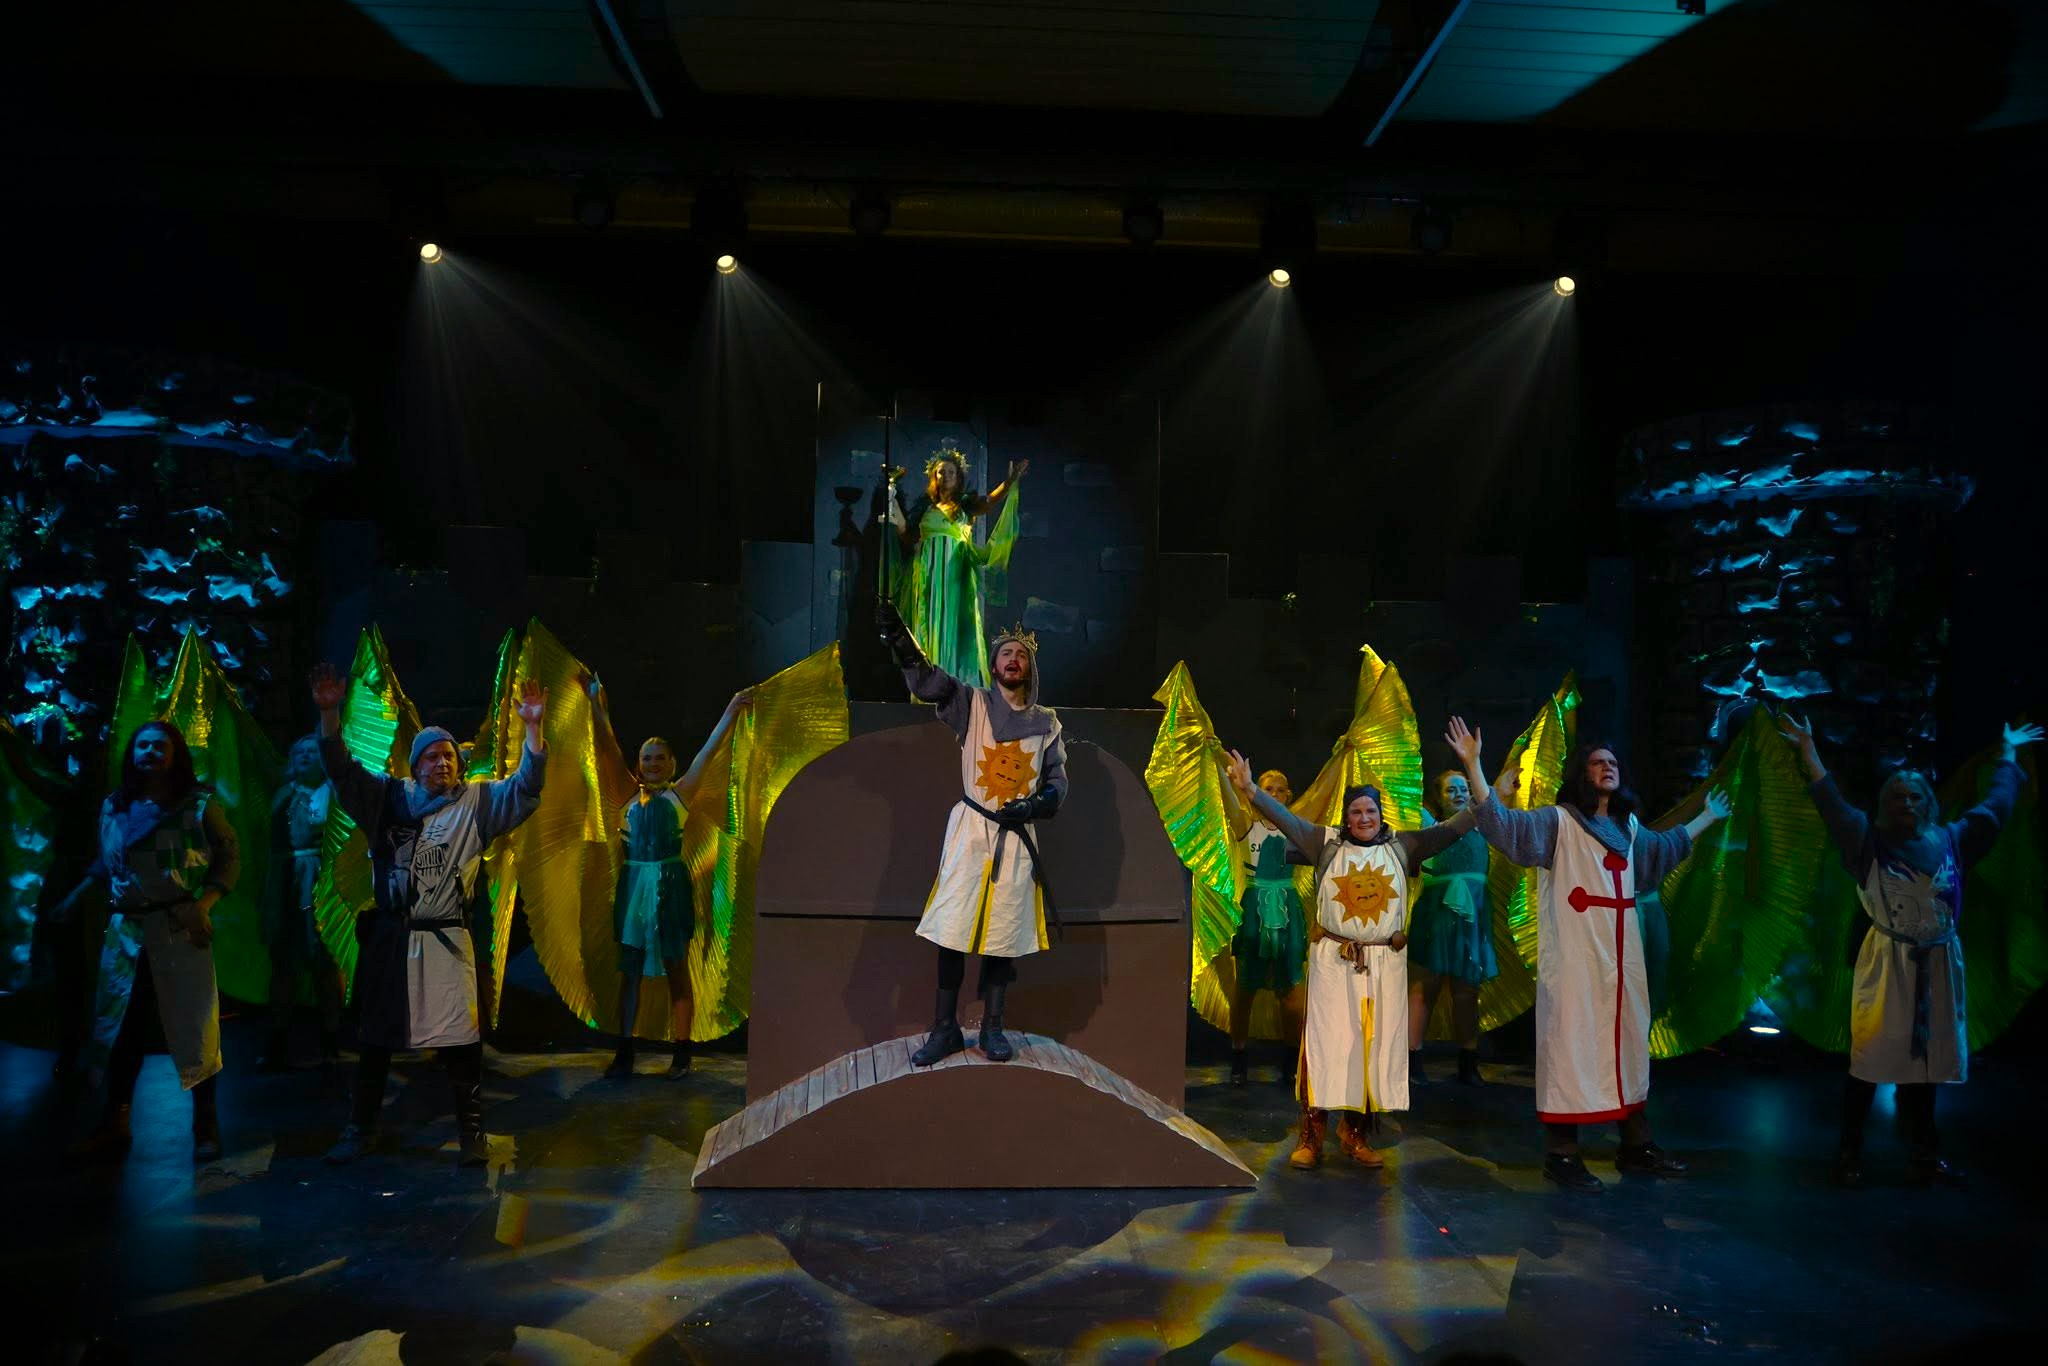
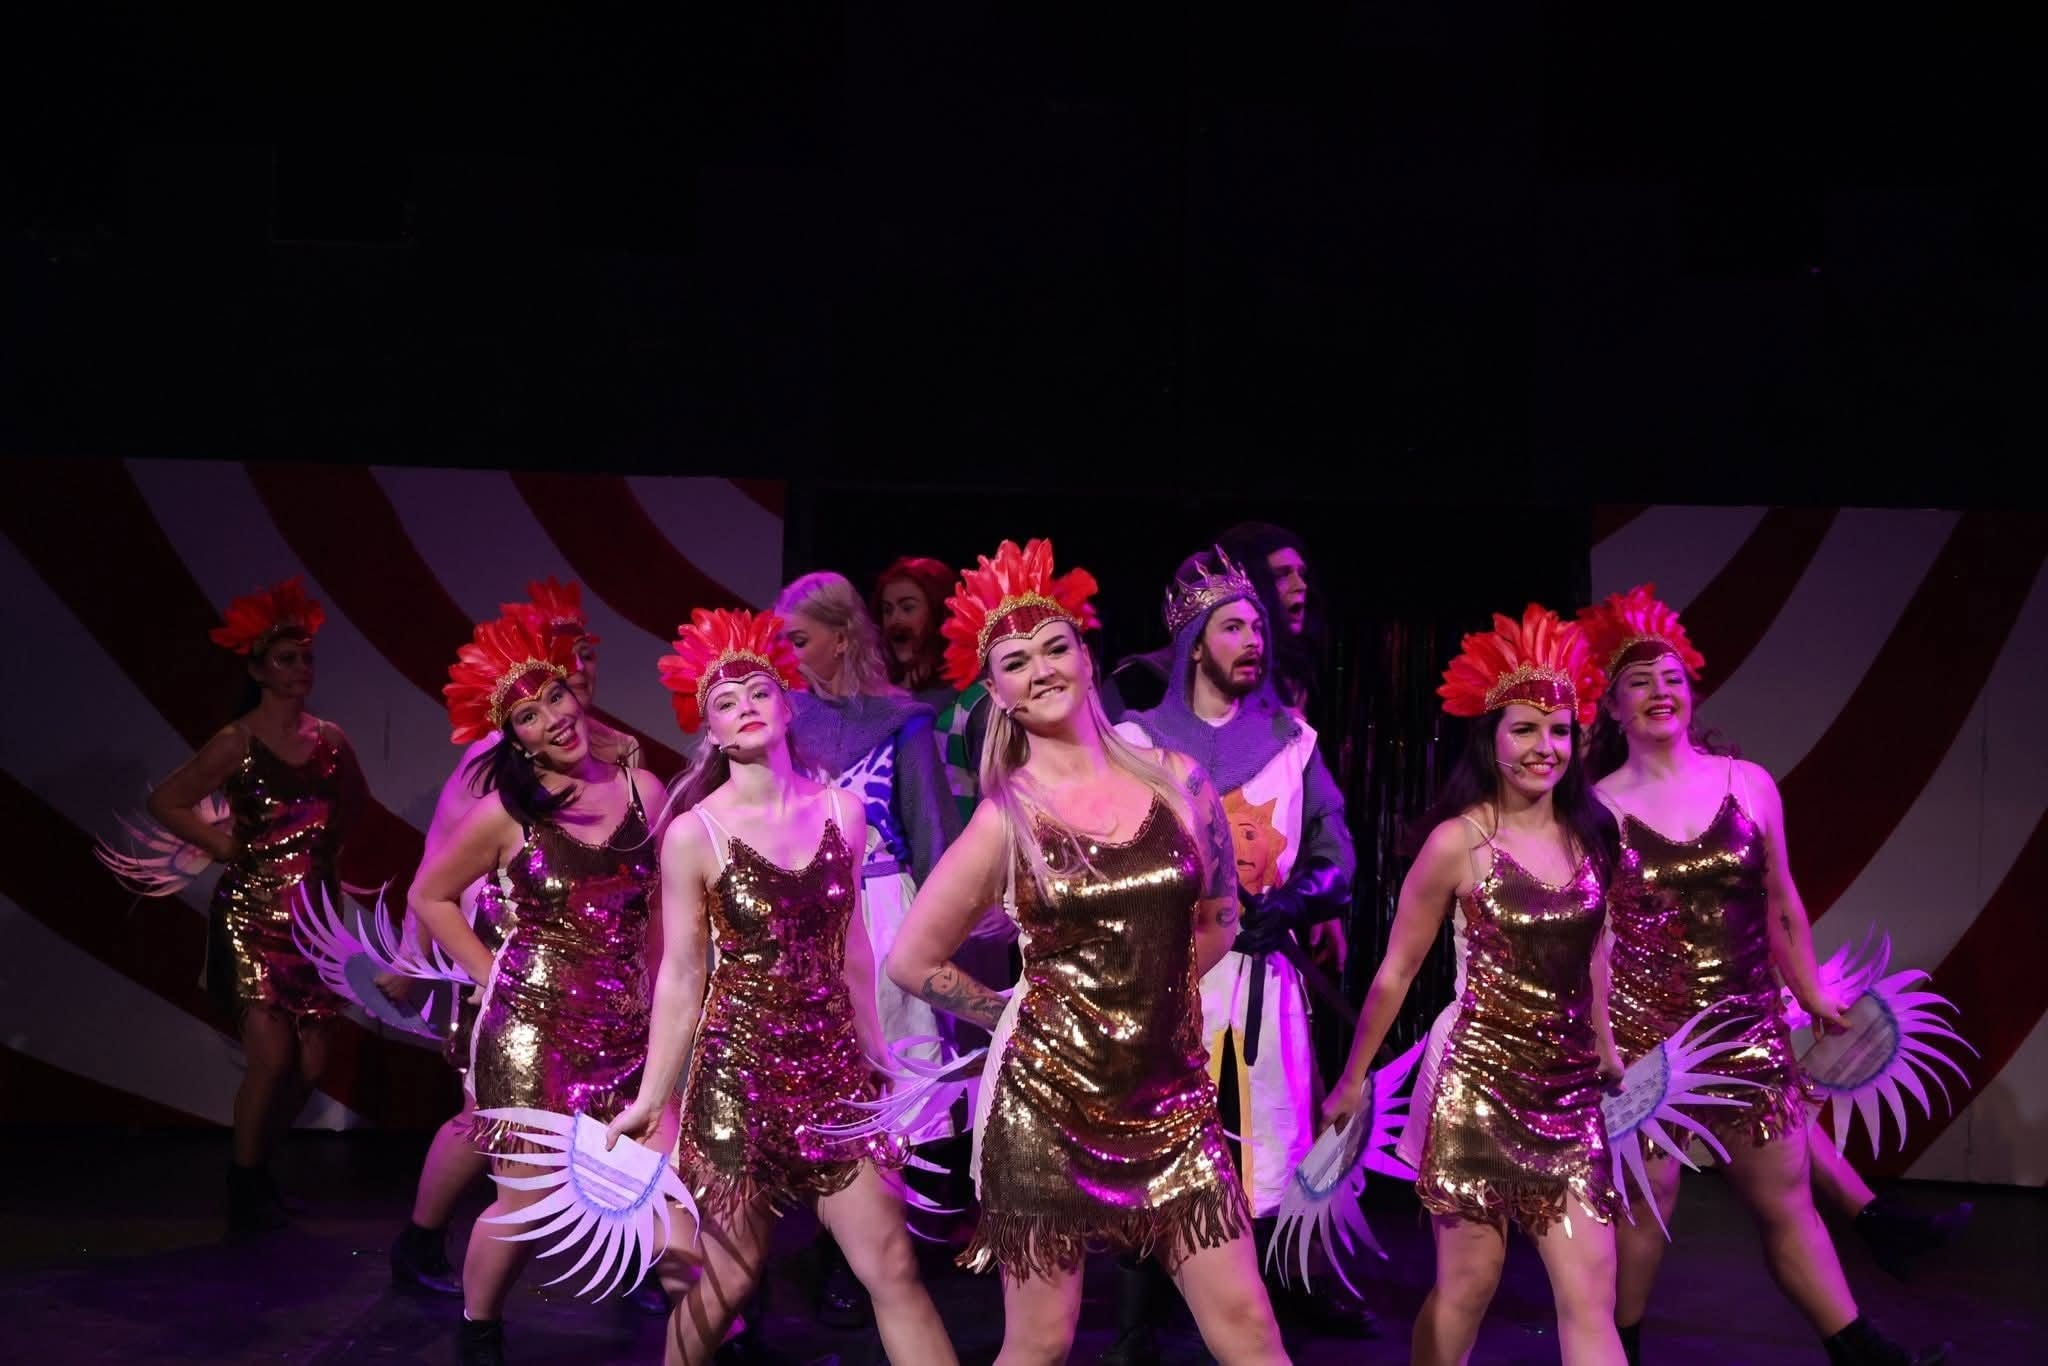
Picture update and changes to main

diff --git a/js/main.js b/js/main.js
@@ -22,7 +22,7 @@ const PROJECTS = [
     category: "Theatre",
     services: ["Lighting design", "Technical Project management"],
     description: "Full lighting design, Planning of audio and lights for full scale theatrical production, Rigging of audio and lights.",
-    photos: 1,
+    photos: 3,
     featured: true,
   },
   {
@@ -35,6 +35,78 @@ const PROJECTS = [
     services: ["Full lighting design"],
     description: "Theatrical lighting for Addams family",
     photos: 7,
+    featured: true,
+  },
+  {
+    id: "Kometen",
+    title: "Kometen",
+    year: 2024-2027,
+    venue: "Kometen Drammen",
+    client: "Strømsø panorama AS",
+    category: "Concert",
+    services: ["Live Lighting design"],
+    description: "Concerts lights in multiple genres such as metal, rock and punk",
+    photos: 5,
+    featured: true,
+  },
+  {
+    id: "Fjosnisser",
+    title: "Fjøsnisser i juleknipe 2026",
+    year: 2026,
+    venue: "Arbeideren hokksund",
+    client: "Hokksund byteater Jr",
+    category: "Theatre",
+    services: ["Theatrical lighting design"],
+    description: "Lighting design with focus on bringing the scenery out of focus, and the actors in front",
+    photos: 6,
+    featured: true,
+  },
+  {
+    id: "Jafar",
+    title: "Jafar",
+    year: 2026,
+    venue: "Solbergelva spinderi",
+    client: "Nedbrutt",
+    category: "Theatre",
+    services: ["Lighting design", "audio production"],
+    description: "Concerts lights in multiple genres such as metal, rock and punk",
+    photos: 3,
+    featured: true,
+  },
+  {
+    id: "MN",
+    title: "Miss Norway 2026",
+    year: 2026,
+    venue: "Gateway studios fornebu",
+    client: "Gateway Studios",
+    category: "Live Event",
+    services: ["Lighting design"],
+    description: "Lights for fashion show",
+    photos: 1,
+    featured: true,
+  },
+  {
+    id: "DRMH",
+    title: "Drammen helsekonferanse",
+    year: 2026,
+    venue: "Gateway Studios Drammen",
+    client: "Gateway Studios",
+    category: "Conferance",
+    services: ["Live Lighting design"],
+    description: "Conferance lights for audience surrounding stage",
+    photos: 2,
+    featured: true,
+  },
+  {
+    id: "TKK",
+    title: "Glassverket musikkkorps",
+    year: 2024,
+    venue: "Tangen kirke",
+    client: "Glassverket musikkkorps",
+    category: "Concert",
+    services: ["Live Lighting design"],
+    description: "Lights for band, church",
+    photos: 1,
     featured: true,
   },
 ];
